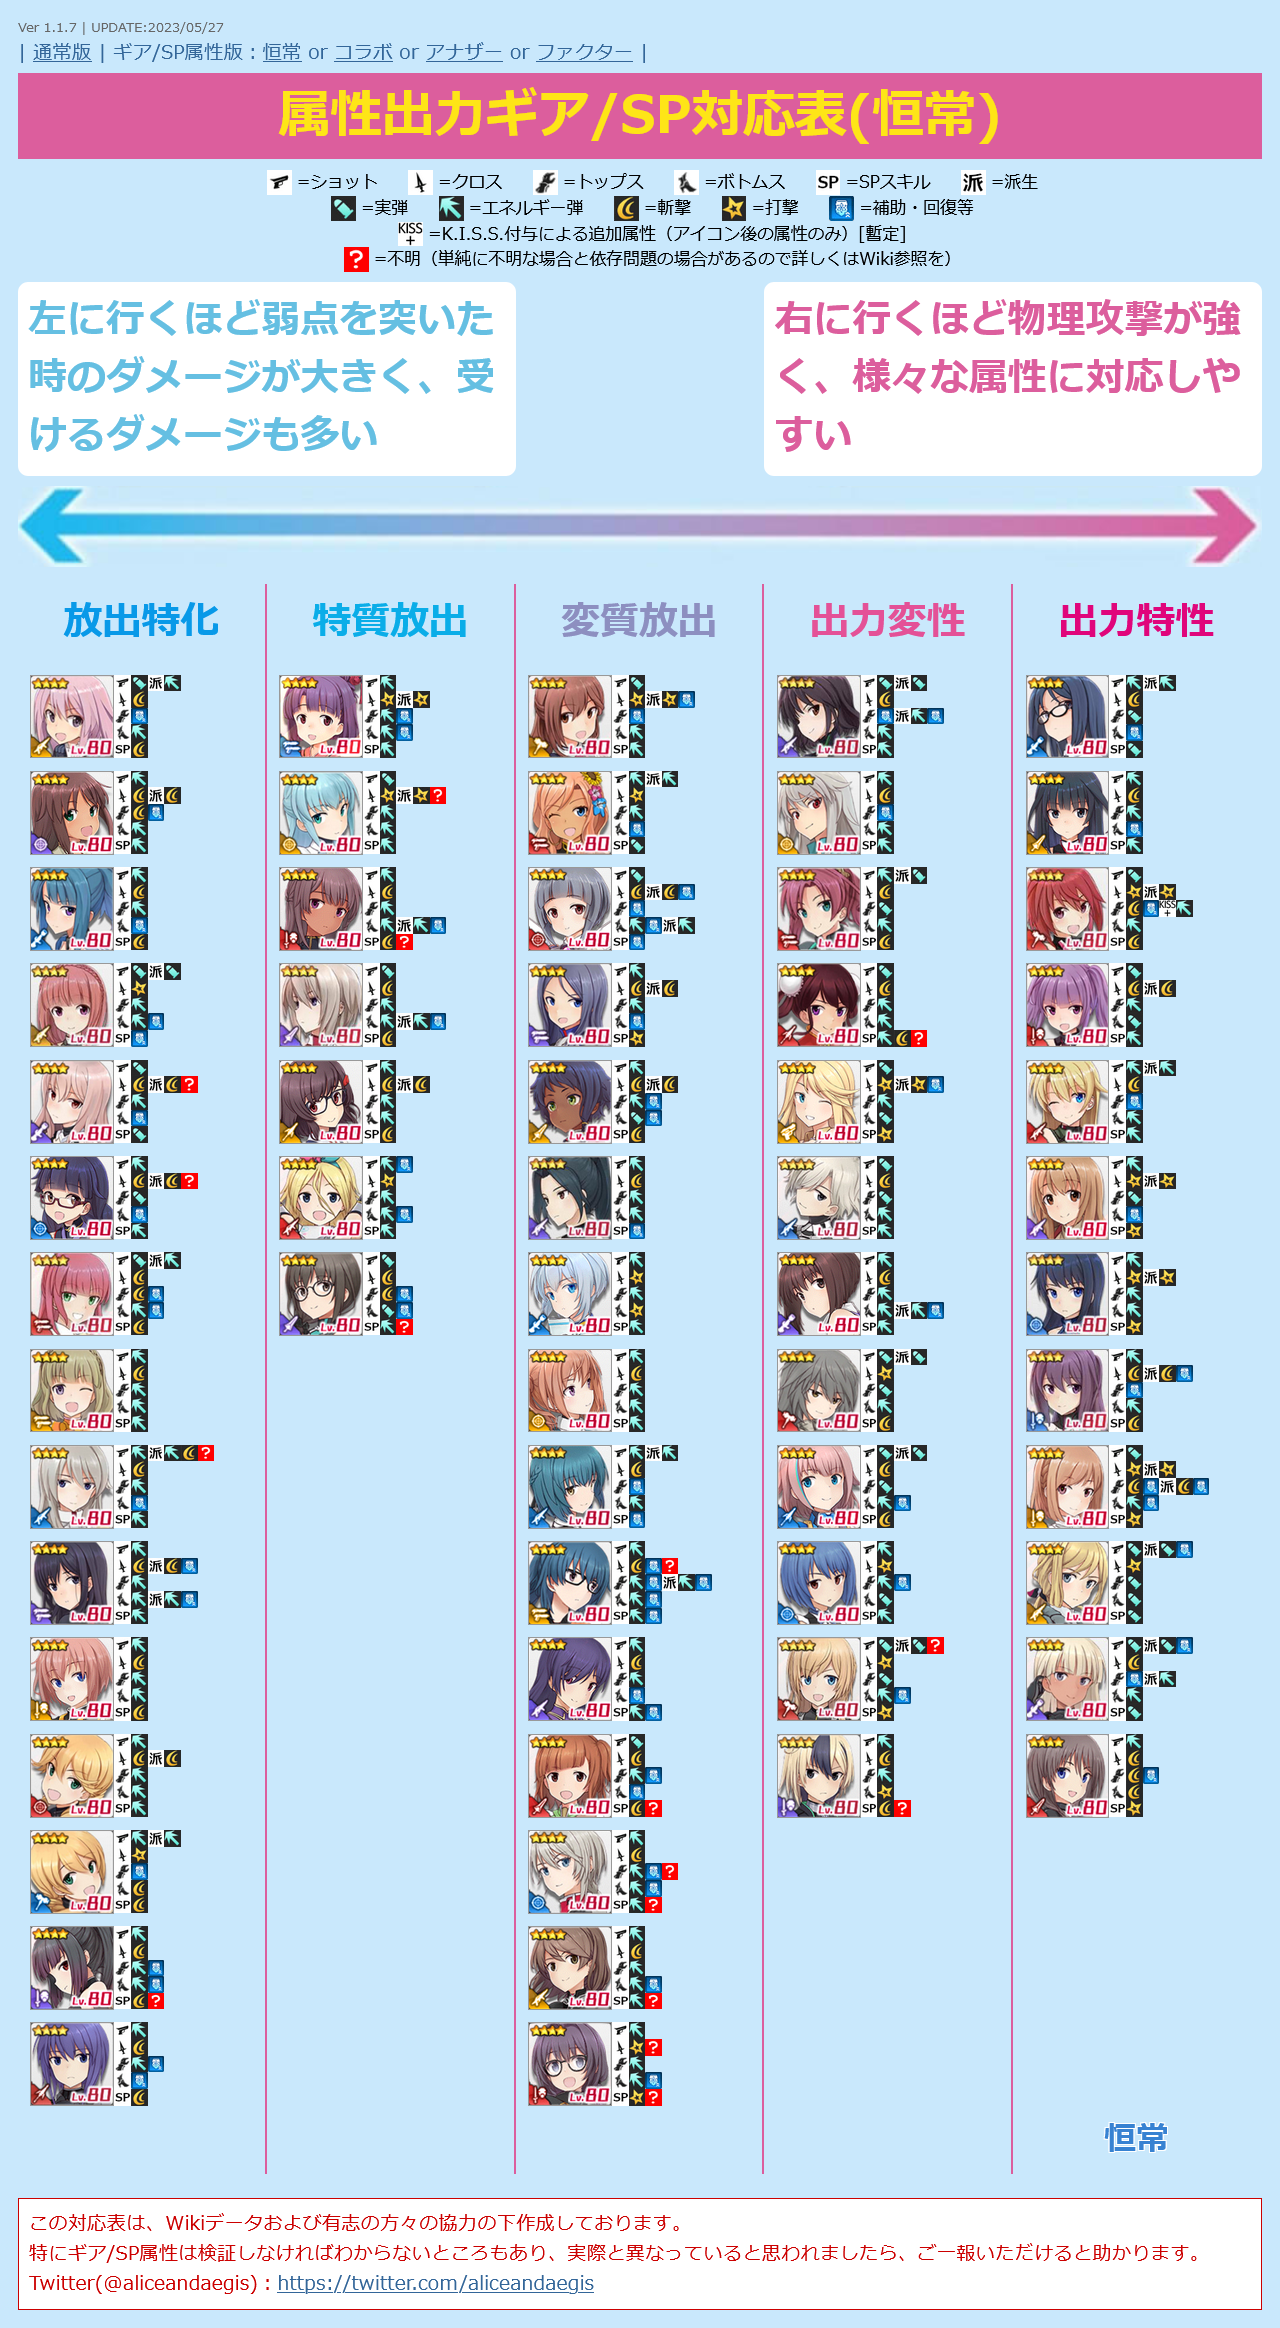
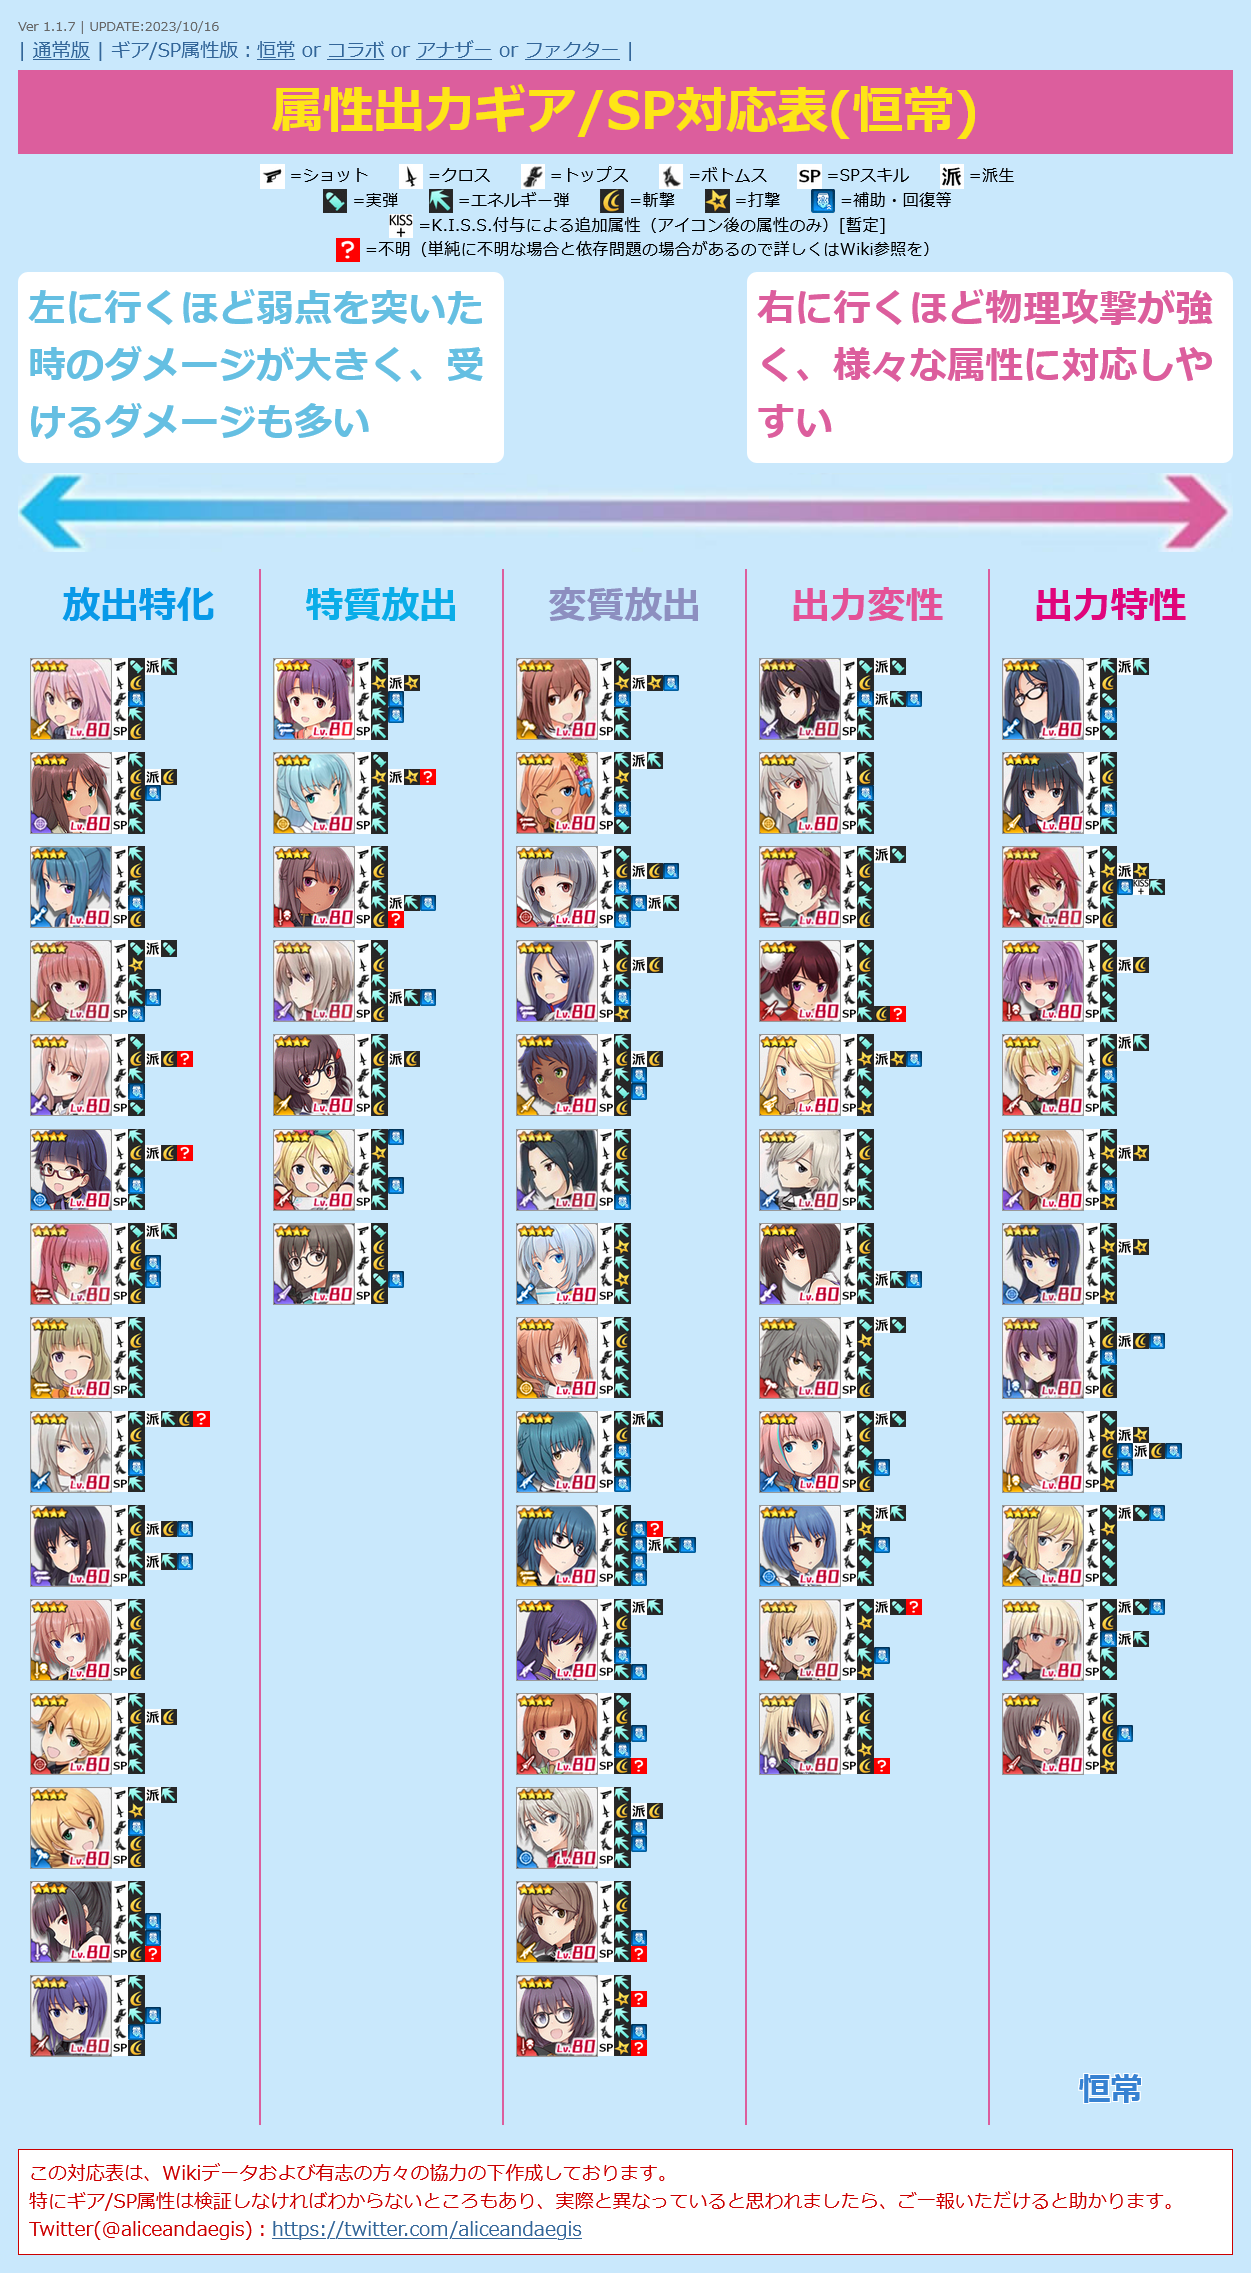
UPDATE charadata
・アナザー アデライーデ・ブルートハウゼン / 瑞花を追加

diff --git a/alice.html b/alice.html
@@ -12,7 +12,7 @@
   <script>
 
 /* 更新情報 必要に応じて書き換えてください */
-  var version = "Ver 1.1.7 | UPDATE:2023/09/28";
+  var version = "Ver 1.1.7 | UPDATE:2023/10/16";
 
 
 /*
@@ -1836,13 +1836,27 @@
       "src": "normal-adie.png",
       "name": "アデライーデ・ブルートハウゼン",
       "equip1": "2",
-      "equip2": "3",
-      "equip3": "25?",
+      "equip2": "3/3",
+      "equip3": "25",
       "equip4": "25",
-      "sp": "2?",
+      "sp": "2",
       "attr": "4",
       "link": "https://wikiwiki.jp/alicegear/%E3%82%A2%E3%83%87%E3%83%A9%E3%82%A4%E3%83%BC%E3%83%87%E3%83%BB%E3%83%96%E3%83%AB%E3%83%BC%E3%83%88%E3%83%8F%E3%82%A6%E3%82%BC%E3%83%B3",
       "category": ""
+    },
+    {
+      "id": "56",
+      "type": "1",
+      "src": "another-adie.png",
+      "name": "アデライーデ・ブルートハウゼン",
+      "equip1": "2",
+      "equip2": "3/3",
+      "equip3": "25",
+      "equip4": "25",
+      "sp": "35?",
+      "attr": "4",
+      "link": "https://wikiwiki.jp/alicegear/%E3%82%A2%E3%83%87%E3%83%A9%E3%82%A4%E3%83%BC%E3%83%87%E3%83%BB%E3%83%96%E3%83%AB%E3%83%BC%E3%83%88%E3%83%8F%E3%82%A6%E3%82%BC%E3%83%B3%E7%91%9E%E8%8A%B1",
+      "category": "10"
     },
     {
       "id": "57",
